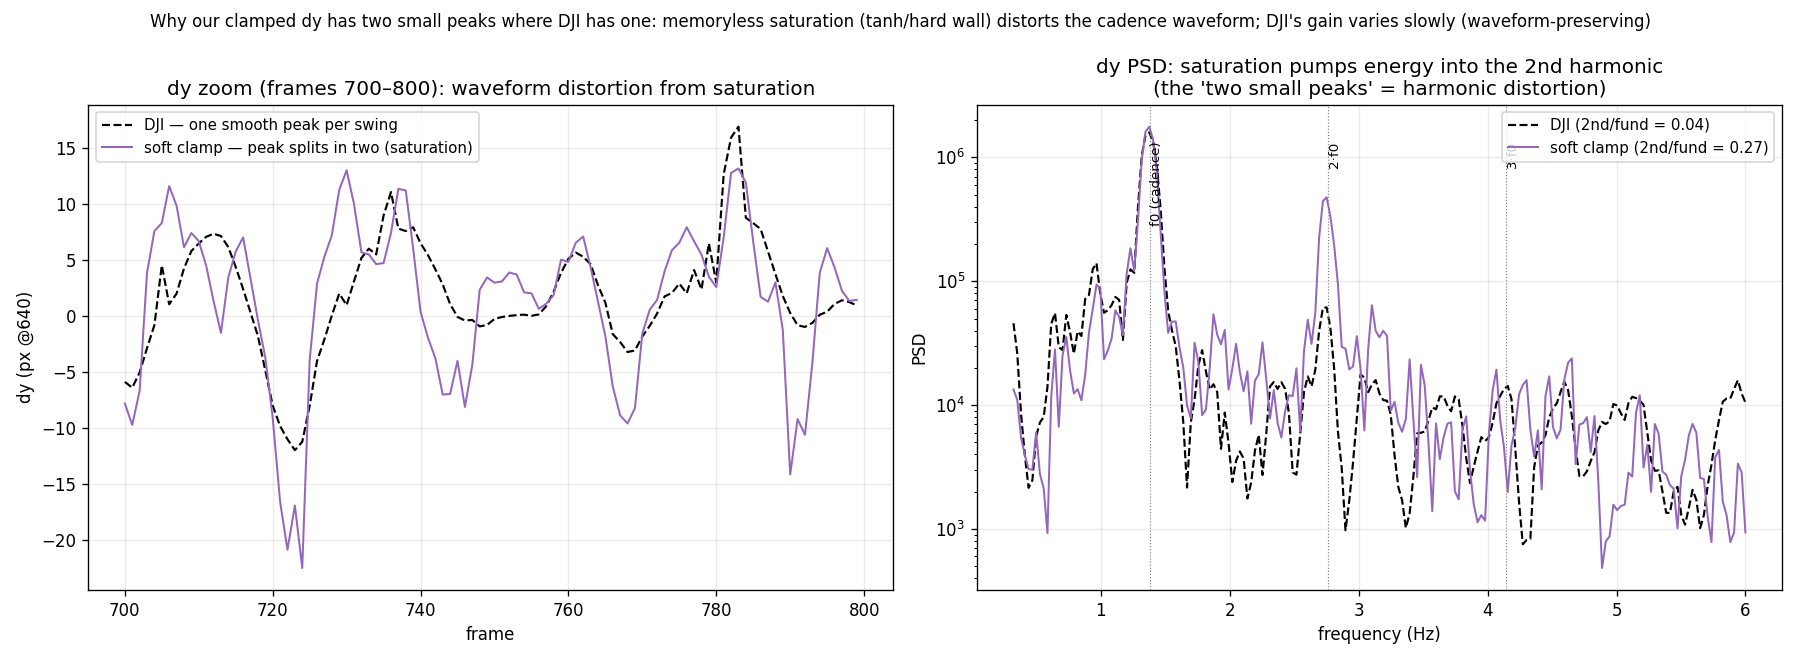
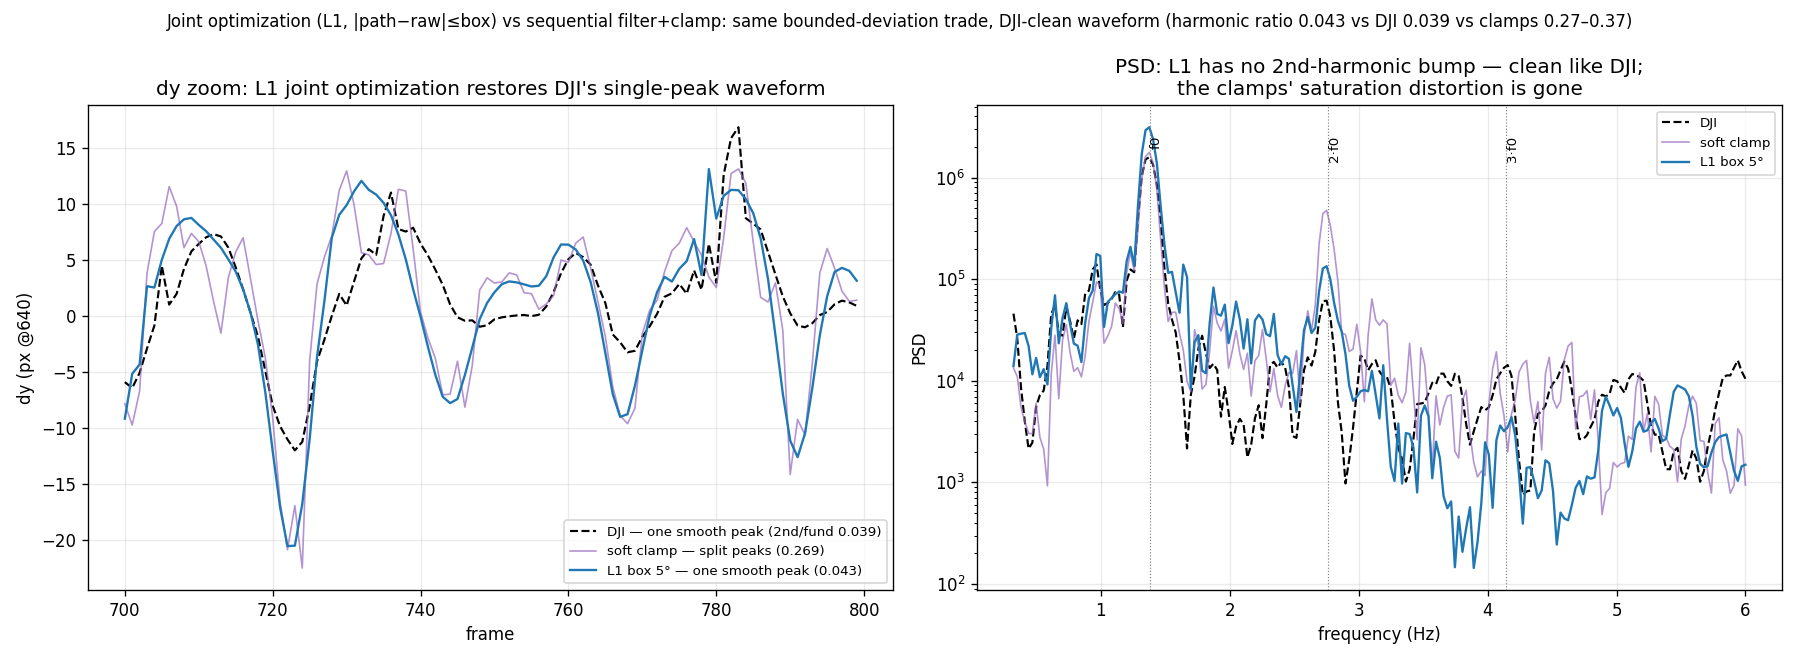
cpp_core: L1 joint optimization verified — the clean DJI mode (§8j-6)
Experiment (c) from §8j-5: rebased this branch onto the full cpp-impl stack (all 7
L1 commits re-applied; conflicts resolved in TODO.md + both CLI tools — union of
DCR/--enhanced/clamps/raw_fov with the L1 wiring; golden md5 unchanged cc9edaad,
ctest 7/7), then rendered 0004 with --smoothing l1 --l1-deviation 5.

Result: the waveform-shape signature matches DJI exactly — 2nd-harmonic/fund
0.043 vs DJI 0.039 (hard clamp 0.366, soft clamp 0.269). The split peaks are gone:
one smooth dy peak per swing, same as DJI. <1Hz band 2.282 vs DJI 2.267. Lowest
path acceleration of the bounded modes (326 vs 899/557 deg/s2). Amplitude tunable
by box size (5-deg per-axis box -> dy 7.33 vs DJI 5.95; ~4 deg would land it).

Verdict: sequential filter+limit is inherently a waveform clipper; solving
smooth+box JOINTLY (L1) is both the elegant formulation and the measured winner.
Ranking: L1-joint >> soft clamp > hard clamp. Cost note: ~2s per 66s clip (ADMM)
vs microseconds for clamps — soft clamp stays the cheap in-camera approximation.
Figure updated (clamp_harmonic_distortion.png: L1 overlay).

Claude-Session: https://claude.ai/code/session_01AJzF16XXvvuX3TJCKcokCX

diff --git a/cpp_core/SMOOTHING_RND.md b/cpp_core/SMOOTHING_RND.md
@@ -653,6 +653,36 @@ problem, `min Σ|derivatives| s.t. |path−raw| ≤ B`, is exactly the **L1-opti
 (`claude/speed-bump-jolt-rnd`) with a small box: its solution rides the box as smooth polynomial
 arcs, no clipping, no harmonics, bound exact. Also explains §8c′ (L1 has the flattest crop demand).
 
+**8j-6. Joint optimization VERIFIED — L1 with a small box IS the clean DJI mode (CONFIRMED).**
+The L1 branch was rebased onto the full current stack (this branch now carries DCR/`--enhanced`,
+look-aheads, clamps, `raw_fov` AND `--smoothing l1`; golden md5 unchanged, ctest 7/7). Rendered
+0004 with `--smoothing l1 --l1-deviation 5` and compared all three bounded-deviation
+implementations on the actual pixels:
+
+| series | dy RMS | <1 Hz | 1–4 Hz | roughness | **2nd-harm/fund** |
+|---|---:|---:|---:|---:|---:|
+| hard clamp 5° | 6.949 | 1.826 | 5.544 | 6.074 | 0.366 |
+| soft clamp 5° | 5.944 | 1.697 | 5.375 | 3.317 | 0.269 |
+| **L1 box 5°** | 7.328 | 2.282 | 6.348 | 5.197 | **0.043** |
+| DJI in-camera | 5.951 | 2.267 | 4.564 | 5.300 | **0.039** |
+
+- **The waveform-shape signature matches DJI exactly**: L1's 2nd-harmonic ratio 0.043 vs DJI's
+  0.039 (clamps: 0.27–0.37). In the dy zoom the split peaks are gone — one smooth peak per swing,
+  same as DJI (`clamp_harmonic_distortion.png`, updated). L1's <1 Hz band (2.282) is also nearly
+  identical to DJI's (2.267).
+- Amplitude is tunable by the box: the 5° *per-axis* box (combined geodesic up to ~9°) lets
+  slightly more through than DJI (dy 7.33 vs 5.95); ~4° per-axis would land the amplitude. Path
+  acceleration 326 °/s² — the lowest of the three bounded modes (hard 899 / soft 557).
+- Telemetry HF is crushed (33×) yet image HF stays ~DJI-level — the image-domain HF at these
+  amplitudes is the §3 translational/RS content, unreachable by any rotational path.
+
+**Final ranking of the bounded-deviation ("DJI look") implementations:** L1-joint ≫ soft clamp >
+hard clamp. The sequential filter+limit structure is inherently a waveform clipper; solving
+smooth+box jointly is both the elegant formulation and the measured winner. Practical notes: L1
+cost ~2 s for a 66 s clip (2000 ADMM iterations) vs microseconds for the clamps; the soft clamp
+remains a reasonable cheap approximation for in-camera use, and the AGC/envelope-gain idea (8j-5a)
+is the middle ground if L1 is too heavy. Output: `dji6_L/20260708/0004_D_cpp_l1box5.mp4`.
+
 ---
 
 ## Bottom line & next steps
